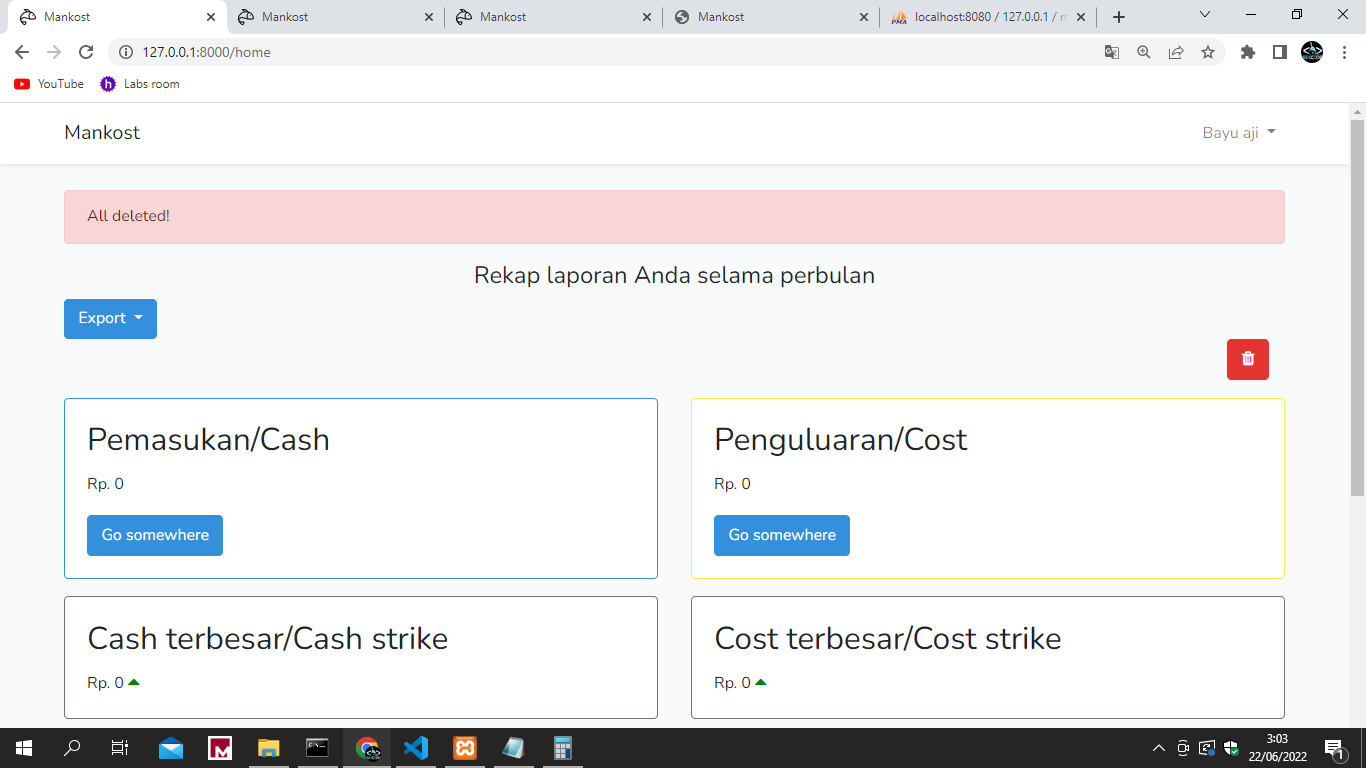
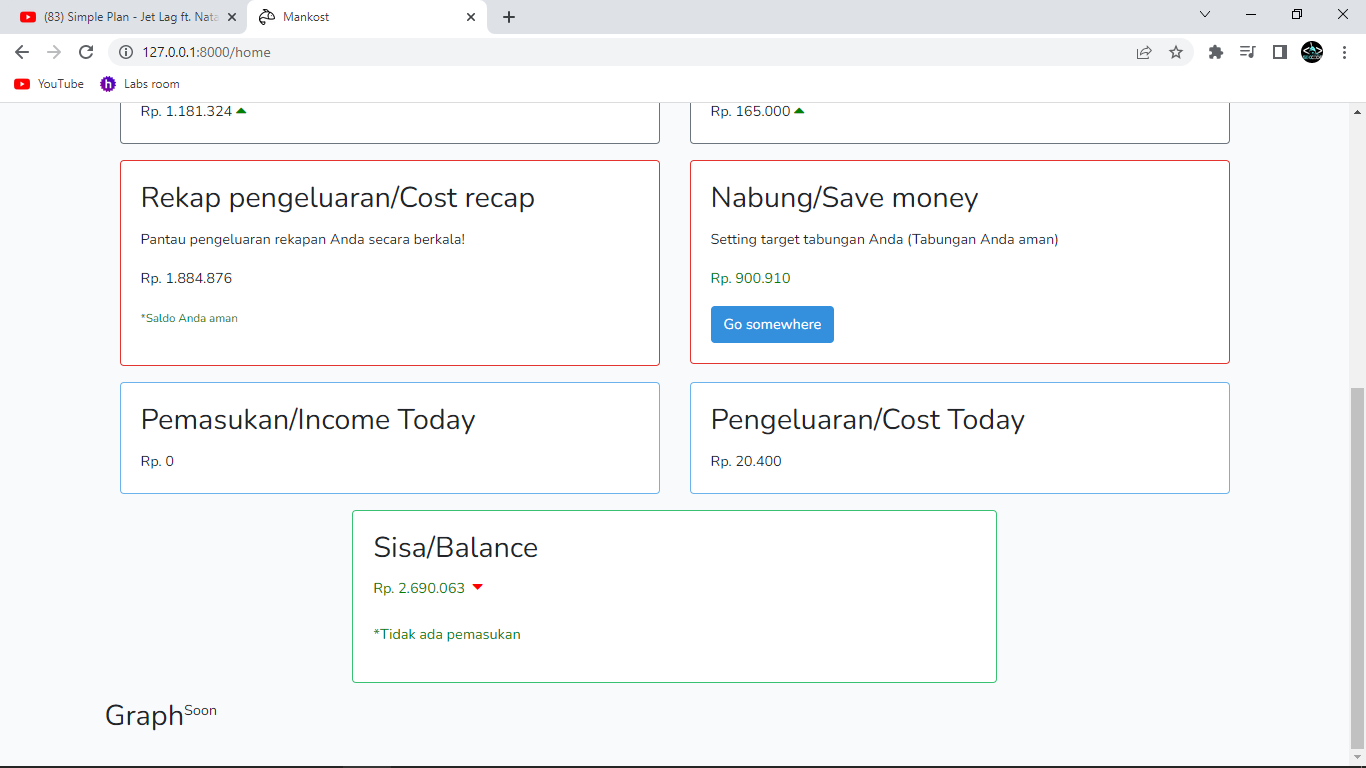
Add features fillter date today

diff --git a/resources/views/cash/today.blade.php b/resources/views/cash/today.blade.php
@@ -21,15 +21,22 @@
     @endif
     <div class="row justify-content-center">
         <div class="col-lg-12">
-         <h1 style="text-align:center;">Cost</h1>
-         <a href="{{ route('cost.post') }}" class="btn btn-primary">Buat laporan baru</a>
+         <h1 style="text-align:center;">Cash Today</h1>
+         <a href="{{ route('cash.post') }}" class="btn btn-primary">Buat laporan baru</a>
           <div class="btn-group">
             <button type="button" class="btn btn-primary dropdown-toggle" data-toggle="dropdown" aria-haspopup="true" aria-expanded="false">
               Fillter
             </button>
             <div class="dropdown-menu">
-              <a class="dropdown-item" href="{{ route('cost.today') }}">Hari ini</a>
+              <a class="dropdown-item" href="{{ route('cash.today') }}">Hari ini</a>
             </div>
+          </div>
+          <div class="col-md-12 bg-light text-right">
+            <form action="{{ route('massdelete.cashs') }}" method="POST">
+              @csrf
+              @method('delete')
+              <a href="{{ route('massdelete.cashs') }}" class="btn btn-danger"><i class="fa fa-trash"></i></a> *Hapus semua laporan 
+            </form>
           </div>
          <p></p>
          <div class="table-responsive">
@@ -46,17 +53,17 @@
             </thead>
             <tbody>
             @php $no = 1; @endphp
-            @forelse($cost as $c)
+            @forelse($today as $c)
               <tr>
                 <td>{{ $no++ }}</td>
                 <td>{{ $c->name }}</td>
                 <td>@currency($c->total)</td>
                 <td>{{ $c->created_at->toDateString() }}</td>
                 <td>
-                  <div><a class="btn btn-primary btn-sm" href="{{ route('cost.edit', $c->id) }}"><i class="fa fa-edit"></i></a></div>
-                </td>
+					<div><a class="btn btn-primary btn-sm" href="{{ route('cash.edit', $c->id) }}"><i class="fa fa-edit"></i></a></div>
+				</td>
                 <td>
-                  <form action="{{ route('cost.hapus', $c->id) }}" method="POST">
+                  <form action="{{ route('cash.hapus', $c->id) }}" method="POST">
                     @csrf
                     @method('delete')
                     <button class="btn btn-danger btn-sm"><i class="fa fa-trash"></i></button>
@@ -69,18 +76,11 @@
             @endforelse
           </table>
         </div>
-        <h1><span class="badge badge-success">Rp. @currency($tot_cost)</span></h1>
+        <h1><span class="badge badge-success">Rp. @currency($tot_cash_today)</span></h1>
       </div>
     </div>
     <p></p>
-    {{ $cost->links() }}
-    <div class="col-md-12 bg-light text-right">
-      <form action="{{ route('massdelete.costs') }}" method="POST">
-        @csrf
-        @method('delete')
-        <a href="{{ route('massdelete.costs') }}" class="btn btn-danger"><i class="fa fa-trash"></i></a> *Hapus semua laporan 
-      </form>
-    </div>
+    {{ $today->links() }}
 </div>
 @endif
 @endsection

diff --git a/resources/views/home.blade.php b/resources/views/home.blade.php
@@ -121,6 +121,22 @@
       </div>
     </div>
   </div>
+  <div class="col-sm-6">
+    <div class="card text-black border-info mb-3">
+      <div class="card-body">
+        <h2 class="card-title">Pemasukan/Income Today</h2>
+        <p class="card-text">Rp. @currency($tot_cash_today)</p>
+      </div>
+    </div>
+  </div>
+  <div class="col-sm-6">
+    <div class="card text-black border-info mb-3">
+      <div class="card-body">
+        <h2 class="card-title">Pengeluaran/Cost Today</h2>
+        <p class="card-text">Rp. @currency($tot_cost_today)</p>
+      </div>
+    </div>
+  </div>
  </div>
 </div>
 <div class="d-flex justify-content-center">
@@ -133,10 +149,15 @@
           <small style="color:green">*Belum ada rekapan</small>
           <div class="space"></div>
           @elseif($balance < "0")
-          <p class="card-text" style="color:red">Rp. @currency($balance)</p>
+          <p class="card-text" style="color:red">Rp. @currency($balance)&nbsp;<i class="fa fa-caret-down" style='font-size:18px;color:red'></i></p>
           <div class="space"></div>
           @else
-          <p class="card-text" style="color:green">Rp. @currency($balance)</p>
+          <p class="card-text" style="color:green">Rp. @currency($balance)
+          @if($tot_cash_today)
+            &nbsp;<i class="fa fa-caret-up" style='font-size:18px;color:green'></i> <br> <br> *Ada pemasukan</p>
+          @else 
+            &nbsp;<i class="fa fa-caret-down" style='font-size:18px;color:red'></i> <br> <br> *Tidak ada pemasukan</p>
+          @endif
           <div class="space"></div>
           @endif
         </div>

diff --git a/resources/views/cost/today.blade.php b/resources/views/cost/today.blade.php
@@ -21,7 +21,7 @@
     @endif
     <div class="row justify-content-center">
         <div class="col-lg-12">
-         <h1 style="text-align:center;">Cost</h1>
+         <h1 style="text-align:center;">Cost Today</h1>
          <a href="{{ route('cost.post') }}" class="btn btn-primary">Buat laporan baru</a>
           <div class="btn-group">
             <button type="button" class="btn btn-primary dropdown-toggle" data-toggle="dropdown" aria-haspopup="true" aria-expanded="false">
@@ -46,7 +46,7 @@
             </thead>
             <tbody>
             @php $no = 1; @endphp
-            @forelse($cost as $c)
+            @forelse($today as $c)
               <tr>
                 <td>{{ $no++ }}</td>
                 <td>{{ $c->name }}</td>
@@ -69,11 +69,11 @@
             @endforelse
           </table>
         </div>
-        <h1><span class="badge badge-success">Rp. @currency($tot_cost)</span></h1>
+        <h1><span class="badge badge-success">Rp. @currency($tot_cost_today)</span></h1>
       </div>
     </div>
     <p></p>
-    {{ $cost->links() }}
+    {{ $today->links() }}
     <div class="col-md-12 bg-light text-right">
       <form action="{{ route('massdelete.costs') }}" method="POST">
         @csrf

diff --git a/app/Http/Controllers/HomeController.php b/app/Http/Controllers/HomeController.php
@@ -7,7 +7,7 @@ use App\Cashs;
 use App\Costs;
 use App\Saves;
 use App\Reports;
-
+use Carbon\Carbon;
 use Illuminate\Http\Request;
 
 class HomeController extends Controller
@@ -39,6 +39,8 @@ class HomeController extends Controller
         
         $show = Reports::latest()->paginate(1)->appends(request()->except('page'));
         $hasData = Reports::first();
+        $tot_cash_today = Cashs::whereDate('created_at', Carbon::today())->sum('total');
+        $tot_cost_today = Costs::whereDate('created_at', Carbon::today())->sum('total');
 
         /* 
         
@@ -49,7 +51,7 @@ class HomeController extends Controller
         return view('home', compact
         (
             'tot_cash', 'tot_cost', 'balance', 'tot_strike_cash', 'tot_strike_cost',
-            'tot_recap_cost', 'tot_saves', 'show', 'hasData'
+            'tot_recap_cost', 'tot_saves', 'show', 'hasData', 'tot_cash_today', 'tot_cost_today'
         ));
     }
 

diff --git a/routes/web.php b/routes/web.php
@@ -25,6 +25,7 @@ Route::any('/all-massdel', 'HomeController@massdelete')->name('massdelete.all');
 
 //CASH 
 Route::get('/cash', 'CashController@index')->name('cash');
+Route::get('/cash-today', 'CashController@today')->name('cash.today');
 Route::get('/cash-create', 'CashController@post')->name('cash.post');
 Route::post('/cash-create', 'CashController@send')->name('cash.send');
 Route::get('/cash-edit/{cash:id}', 'CashController@edit')->name('cash.edit');
@@ -34,6 +35,7 @@ Route::any('/cash-massdel', 'CashController@massdelete')->name('massdelete.cashs
 
 //COST 
 Route::get('/cost', 'CostController@index')->name('cost');
+Route::get('/cost-today', 'CostController@today')->name('cost.today');
 Route::get('/cost-create', 'CostController@post')->name('cost.post');
 Route::post('/cost-create', 'CostController@send')->name('cost.send');
 Route::get('/cost-edit/{cost:id}', 'CostController@edit')->name('cost.edit');

diff --git a/app/Http/Controllers/CashController.php b/app/Http/Controllers/CashController.php
@@ -8,6 +8,7 @@ use App\Reports;
 
 use Illuminate\Http\Request;
 use Illuminate\Support\Facades\Auth;
+use Carbon\Carbon;
 
 class CashController extends Controller
 {
@@ -29,6 +30,15 @@ class CashController extends Controller
         $hasData = Reports::first();
 
         return view('cash.index', compact('tot_cash', 'cash', 'hasData'));
+    }
+
+    public function today()
+    {
+        $today = Cashs::whereDate('created_at', Carbon::today())->paginate(25)->appends(request()->except('page'));
+        $hasData = Reports::first();
+        $tot_cash_today = Cashs::whereDate('created_at', Carbon::today())->sum('total');
+
+        return view('cash.today', compact('today', 'hasData', 'tot_cash_today'));
     }
 
     public function post()

diff --git a/app/Http/Controllers/CostController.php b/app/Http/Controllers/CostController.php
@@ -7,6 +7,7 @@ use App\Reports;
 
 use Illuminate\Http\Request;
 use Illuminate\Support\Facades\Auth;
+use Carbon\Carbon;
 
 class CostController extends Controller
 {
@@ -27,6 +28,15 @@ class CostController extends Controller
         $hasData = Reports::first();
 
         return view('cost.index', compact('tot_cost', 'cost', 'hasData'));
+    }
+
+    public function today()
+    {
+        $today = Costs::whereDate('created_at', Carbon::today())->paginate(25)->appends(request()->except('page'));
+        $hasData = Reports::first();
+        $tot_cost_today = Costs::whereDate('created_at', Carbon::today())->sum('total');
+
+        return view('cost.today', compact('today', 'hasData', 'tot_cost_today'));
     }
 
     public function post()

diff --git a/resources/views/cash/index.blade.php b/resources/views/cash/index.blade.php
@@ -23,6 +23,14 @@
         <div class="col-lg-12">
          <h1 style="text-align:center;">Cash</h1>
          <a href="{{ route('cash.post') }}" class="btn btn-primary">Buat laporan baru</a>
+          <div class="btn-group">
+            <button type="button" class="btn btn-primary dropdown-toggle" data-toggle="dropdown" aria-haspopup="true" aria-expanded="false">
+              Fillter
+            </button>
+            <div class="dropdown-menu">
+              <a class="dropdown-item" href="{{ route('cash.today') }}">Hari ini</a>
+            </div>
+          </div>
           <div class="col-md-12 bg-light text-right">
             <form action="{{ route('massdelete.cashs') }}" method="POST">
               @csrf

diff --git a/README.md b/README.md
@@ -16,6 +16,7 @@ Simple, pengeluaran tidak boleh lebih besar, pastikan saldo dan tabungan yang An
 
 ## Fitur
 
+- Filter date (hari ini)
 - Simple design 
 - Target nabung 
 - Otomatis count
